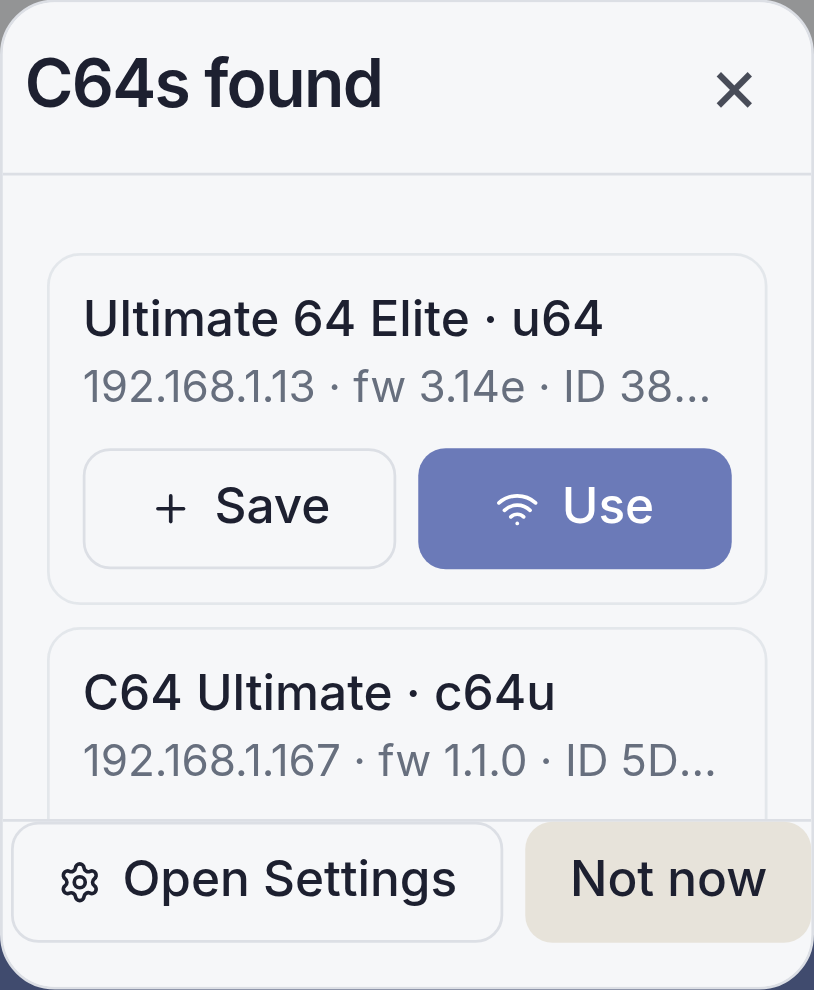
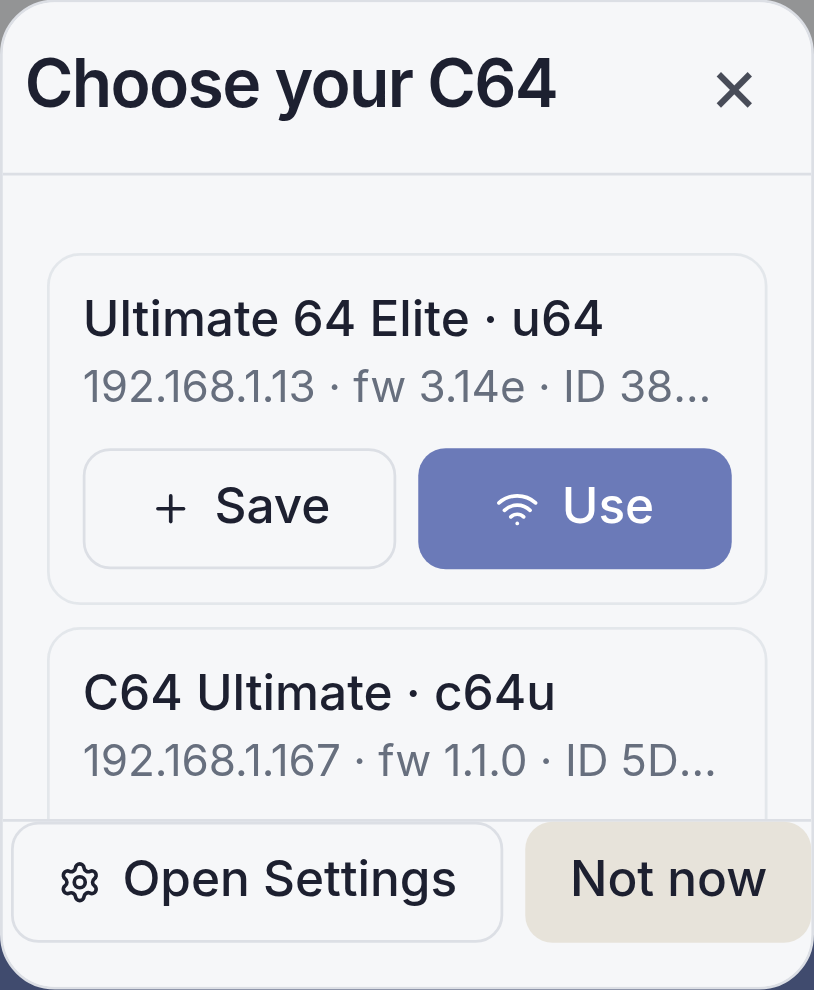
fix(ui): title the discovery dialog by what it is for
The dialog's two titles are now **"Choose your C64"** when devices were found and
**"No C64 found"** when none were.

With candidates, the dialog is a chooser — every row carries Save and Use — so
the title names the action rather than reporting a count. It is shorter than the
previous wording, drops "system" (which told the reader nothing), avoids the
awkward "C64s" plural, is safe in uppercase, and stays symmetric with the empty
case on the noun.

Updated with it:

- the six assertions in `tests/unit/components/DeviceDiscoveryInterstitial.test.tsx`
- the dialog locator in `playwright/screenshots.spec.ts`, which matches the dialog
  **by accessible name**, so a stale pattern there stops finding the dialog
  instead of failing loudly
- `docs/img/app/launch/discovery/startup-autodiscovery-interstitial.png`,
  recaptured on its own rather than through `npm run screenshots` (which rewrites
  about 200 files with machine render drift). Exactly one PNG changed; the
  png-prune hook reported `scanned=1 kept=1 reverted=0`.

The manual never used the old wording — it described the flow generically — so
there was no old terminology to replace there. It now names both dialogs, so a
reader can match the page to the screen in front of them, and the Feature
Reference row for manual host/IP entry points at "No C64 found" rather than
describing it. Both editions regenerated.

`docs/testing/PENDING-SCREENSHOT-REGEN.md` records that a wider screenshot pass
[…]

Changed region(s): [[0.0921, 0.0606, 0.6757, 0.1212]]

diff --git a/tests/unit/components/DeviceDiscoveryInterstitial.test.tsx b/tests/unit/components/DeviceDiscoveryInterstitial.test.tsx
@@ -145,7 +145,7 @@ describe("DeviceDiscoveryInterstitial", () => {
   it("shows automatic startup discovery results while the app is offline", () => {
     renderDialog();
 
-    expect(screen.getByText("C64s found")).toBeInTheDocument();
+    expect(screen.getByText("Choose your C64")).toBeInTheDocument();
     expect(screen.getByText("Ultimate 64 Elite · u64")).toBeInTheDocument();
     expect(screen.getByText("192.168.1.13 · fw 3.14e · ID 38C1BA")).toBeInTheDocument();
     expect(screen.getByTestId("startup-use-discovered-device-id:38c1ba")).toBeInTheDocument();
@@ -156,7 +156,7 @@ describe("DeviceDiscoveryInterstitial", () => {
 
     renderDialog();
 
-    expect(screen.getByText("C64s found")).toBeInTheDocument();
+    expect(screen.getByText("Choose your C64")).toBeInTheDocument();
     expect(screen.getByTestId("startup-use-discovered-device-id:38c1ba")).toBeInTheDocument();
   });
 
@@ -510,16 +510,16 @@ describe("DeviceDiscoveryInterstitial", () => {
 
     fireEvent.click(screen.getByTestId("startup-device-discovery-open-settings"));
 
-    expect(screen.queryByText("C64s found")).not.toBeInTheDocument();
+    expect(screen.queryByText("Choose your C64")).not.toBeInTheDocument();
   });
 
   it("dismisses on dialog close (Escape)", () => {
     renderDialog();
-    expect(screen.getByText("C64s found")).toBeInTheDocument();
+    expect(screen.getByText("Choose your C64")).toBeInTheDocument();
 
     fireEvent.keyDown(document.activeElement ?? document.body, { key: "Escape" });
 
-    expect(screen.queryByText("C64s found")).not.toBeInTheDocument();
+    expect(screen.queryByText("Choose your C64")).not.toBeInTheDocument();
   });
 
   it("acknowledges the discovery results into the shared store when dismissed with Not now (HARD19-028)", () => {

diff --git a/src/components/DeviceDiscoveryInterstitial.tsx b/src/components/DeviceDiscoveryInterstitial.tsx
@@ -370,10 +370,11 @@ export function DeviceDiscoveryInterstitial() {
 
   if (!shouldOffer) return null;
 
-  // "C64" rather than "C64 system": the extra word says nothing the reader needs,
-  // and on the compact profile the longer title wrapped to two lines and pushed the
-  // dialog's own controls down.
-  const dialogTitle = hasCandidates ? "C64s found" : "No C64 found";
+  // The two titles stay symmetric on the noun and drop "system", which said
+  // nothing the reader needed and wrapped to two lines on the compact profile.
+  // With candidates the dialog is a chooser — every row carries Save and Use — so
+  // the title names the action rather than reporting a count.
+  const dialogTitle = hasCandidates ? "Choose your C64" : "No C64 found";
   const dialogDescription = hasCandidates
     ? "Choose one to control now, save one for later, or enter an address manually in Settings."
     : "Enter your C64 Ultimate host or IP address.";

diff --git a/playwright/screenshots.spec.ts b/playwright/screenshots.spec.ts
@@ -4173,7 +4173,7 @@ test.describe("App screenshots", () => {
       await page.setViewportSize(DISPLAY_PROFILE_VIEWPORTS.compact.viewport);
       await page.goto("/", { waitUntil: "domcontentloaded" });
 
-      const dialog = page.getByRole("dialog", { name: /C64s found/i });
+      const dialog = page.getByRole("dialog", { name: /Choose your C64/i });
       await expect(dialog).toBeVisible({ timeout: 15000 });
       await expect(dialog.getByText("Ultimate 64 Elite · u64")).toBeVisible();
       // Crop to the interstitial itself, not the whole screen.

diff --git a/docs/testing/hil-game-mode-8020-soak.md b/docs/testing/hil-game-mode-8020-soak.md
@@ -54,11 +54,11 @@ diamond8: 5=up, 7=left, 9=right, 0=down, 8=fire. classicT9: 2=up, 4=left, 6=righ
 | F9  | C     | **open, unfinished**  | After 200 random keys the Play page rendered **completely blank** — tab bar and guidance only, textLen 64 vs 587 healthy, focusables 6 vs 50. Recovers on any tab press. Reproduction so far: 10 rounds rapid page-jumping (0), 5 rounds identical 200-key mash (0), 2 of a planned 15 more (0) before device handover. **Not at the 20-round bar — incomplete, not concluded.** Needs a device (Game Mode entry).                                                                                                                                    | **resume on u64**           |
 | F10 | C     | works                 | Stream integrity, 27 s on the 8020: audio 0 dropped / 0 concealed / 0 underruns; video 8 lost packets, **0 lost frames**, 4 partial; 0 A/V sync pops; 100% effective rate at 51 fps; pipeline residence P99 13 ms. Cross-checks the split Audio/Video loss counters the manual documents.                                                                                                                                                                                                                                                             | confirmed healthy           |
 | F11 | D     | resolved              | Landscape initially unreachable — the app locks portrait via `ScreenOrientation.lock`; a localStorage write does not move it. Reached via Settings → Appearance → Landscape.                                                                                                                                                                                                                                                                                                                                                                          | resolved                    |
-| F12 | **D** | **BLOCKING for 8020** | **In landscape (427x320) the "No C64 systems found" dialog's primary action is unreachable.** Content is 363 px in a 320 px viewport; **"Connect" renders at y=285–329, off-screen**; only "Not now" (dismiss) is visible. 8×DPAD_DOWN never leaves "Not now"; up/left/right → "Close"; Tab reaches the host input at y=178, also `visible:false`, and focus does **not** scroll it into view. A keypad-only user types into a field they cannot see and can never reach Connect — **first-run setup is impossible**. I had to click Connect via CDP. | **open, verified**          |
+| F12 | **D** | **BLOCKING for 8020** | **In landscape (427x320) the discovery dialog's primary action is unreachable.** Content is 363 px in a 320 px viewport; **"Connect" renders at y=285–329, off-screen**; only "Not now" (dismiss) is visible. 8×DPAD_DOWN never leaves "Not now"; up/left/right → "Close"; Tab reaches the host input at y=178, also `visible:false`, and focus does **not** scroll it into view. A keypad-only user types into a field they cannot see and can never reach Connect — **first-run setup is impossible**. I had to click Connect via CDP. | **open, verified**          |
 | F13 | C     | scoping F12           | The focus ring is not generally broken: 22 focus steps down Settings left only one element "off-screen", and that was a section container taller than the viewport, not a stranded control. F12 is specific to that dialog's footer button. Portrait very likely unaffected (363 px content fits 427 px) — inferred from the measurement, not separately observed, since the dialog stops appearing once a device is saved.                                                                                                                           | analysed                    |
 | F14 | C     | works                 | Orientation is recoverable in-app: Settings → Appearance → Portrait restored 320x427 cleanly.                                                                                                                                                                                                                                                                                                                                                                                                                                                         | confirmed                   |
 | F15 | C/D   | works                 | The variant pins `default_display_profile: compact`, so the 8020 stays compact at 16 px root in BOTH orientations. My guess that 427 px would flip it to medium was wrong.                                                                                                                                                                                                                                                                                                                                                                            | confirmed                   |
-| F16 | C     | works                 | With no network the app degrades well — a clear "No C64 systems found" prompt with a host/IP field, not a blank or stuck screen.                                                                                                                                                                                                                                                                                                                                                                                                                      | confirmed                   |
+| F16 | C     | works                 | With no network the app degrades well — a clear "No C64 found" prompt with a host/IP field, not a blank or stuck screen.                                                                                                                                                                                                                                                                                                                                                                                                                      | confirmed                   |
 
 ### Note on F5
 

diff --git a/docs/testing/PENDING-SCREENSHOT-REGEN.md b/docs/testing/PENDING-SCREENSHOT-REGEN.md
@@ -1,0 +1,53 @@
+# Pending: screenshot regeneration
+
+Standing note. **Do this once all other in-flight work on this branch is finished**, not before —
+regenerating early only means doing it again after the next UI change.
+
+## Why
+
+UI copy and layout changed on this branch, so some committed PNGs under `docs/img/app/` show text or
+spacing the app no longer produces.
+
+Known so far:
+
+- Discovery interstitial titles changed to **"Choose your C64"** (devices found) and
+  **"No C64 found"** (none found). `docs/img/app/launch/discovery/startup-autodiscovery-interstitial.png`
+  has already been recaptured for this; anything else showing that dialog has not been checked.
+- The compact-profile density work on `ux/compact-density` (separate branch) will change spacing on
+  most compact screenshots when it lands.
+- The follow-focus feature on `feat/follow-focus` (separate branch) adds Live View UI.
+
+## How — and the trap
+
+Do **not** simply run `npm run screenshots` and commit the result. It rewrites roughly 200 PNGs with
+machine-specific render drift (fonts and antialiasing differ from the machine that produced the
+committed corpus), so the diff is mostly noise and hides the handful of real changes.
+
+Instead:
+
+1. Build for the default variant first. `dist/` may hold a `c64u-remote` build from HIL work, and
+   the screenshots must be captured from the `c64commander` variant:
+   ```bash
+   npm run build
+   ```
+2. Capture only what changed, on a private port — 4173 is shared with other agents on this machine
+   and a collision looks like a test failure:
+   ```bash
+   TRACE_ASSERTIONS_DEFAULT=1 PLAYWRIGHT_TRACE_MODE=off PLAYWRIGHT_VIDEO_MODE=off \
+   PLAYWRIGHT_PORT=4791 npx playwright test playwright/screenshots.spec.ts \
+     -g "<test name>" --workers 1
+   ```
+3. Check what actually changed before staging:
+   ```bash
+   git status --short docs/img/
+   ```
+   The repo's `png-prune` pre-commit hook reports `scanned=N reverted=N deleted=N kept=N`. A file it
+   keeps is a real content change; one it reverts was drift. If a file you did not intend appears,
+   revert it: `git checkout -- docs/img/<path>`.
+
+## Also check
+
+- `tests/unit/readmeScreenshotCoverage.test.ts` — asserts the README's gallery references resolve.
+- Any Playwright locator that matches a dialog **by name**. The discovery locator in
+  `playwright/screenshots.spec.ts` matched `/C64 systems found/i` and would have silently stopped
+  finding the dialog rather than failing loudly.

diff --git a/docs/manual/c64commander/c64commander-manual.md b/docs/manual/c64commander/c64commander-manual.md
@@ -63,13 +63,13 @@ Note the IP address under **Wired Network Setup** or **WI-FI Network Setup**. Yo
 
 Start C64 Commander. If no saved device is reachable, it scans the local network for supported devices.
 
-If devices are found:
+If devices are found, the app opens **Choose your C64**:
 
 1. Choose **Use** to connect now.
 2. Choose **Save** to keep the device for later.
 3. If the device is password-protected, enter its network password when asked.
 
-If no devices are found, C64 Commander opens a manual setup prompt.
+If no devices are found, C64 Commander opens **No C64 found**, a manual setup prompt.
 
 Enter a hostname such as `c64u`, `u64`, or `u2`, or an IP address such as `192.168.1.64`, then choose **Connect**. If the device answers but requires a password, the same dialog asks for it before saving and connecting.
 
@@ -865,7 +865,7 @@ Preferred locations are marked first.
 | Feature | Where to find it | Notes |
 | --- | --- | --- |
 | Connect to a device | **Startup discovery**, Settings → Connection | Use startup discovery first. Use Settings for later edits. |
-| Manual host/IP entry | **Startup prompt when no devices are found**, Settings → Connection | Startup prompt is fastest on first run; Settings is best for saved-device maintenance. |
+| Manual host/IP entry | **No C64 found** at startup, Settings → Connection | Startup prompt is fastest on first run; Settings is best for saved-device maintenance. |
 | Network password | **Startup prompt or auth popup**, Settings → Connection | The app asks only when needed. |
 | Switch saved device | **Header badge long-press / `#`**, Settings → Connection | Use Device Switcher for fast switching; Settings for editing. |
 | Menu / Pause / Reset / Reboot | **Home → Quick Actions** | The everyday controls. |

diff --git a/docs/manual/c64u-remote/c64u-remote-manual.md b/docs/manual/c64u-remote/c64u-remote-manual.md
@@ -61,13 +61,13 @@ Note the IP address under **Wired Network Setup** or **WI-FI Network Setup**. Yo
 
 Start C64U Remote. If no saved device is reachable, it scans the local network for a Commodore 64 Ultimate.
 
-If devices are found:
+If devices are found, the app opens **Choose your C64**:
 
 1. Choose **Use** to connect now.
 2. Choose **Save** to keep the device for later.
 3. If the device is password-protected, enter its network password when asked.
 
-If no devices are found, C64U Remote opens a manual setup prompt.
+If no devices are found, C64U Remote opens **No C64 found**, a manual setup prompt.
 
 Enter a hostname such as `c64u` or an IP address such as `192.168.1.64`, then choose **Connect**. If the Commodore 64 Ultimate answers but requires a password, the same dialog asks for it before saving and connecting.
 
@@ -885,7 +885,7 @@ Preferred locations are marked first.
 | Feature | Where to find it | Notes |
 | --- | --- | --- |
 | Connect to a device | **Startup discovery**, Settings → Connection | Use startup discovery first. Use Settings for later edits. |
-| Manual host/IP entry | **Startup prompt when no devices are found**, Settings → Connection | Startup prompt is fastest on first run; Settings is best for saved-device maintenance. |
+| Manual host/IP entry | **No C64 found** at startup, Settings → Connection | Startup prompt is fastest on first run; Settings is best for saved-device maintenance. |
 | Network password | **Startup prompt or auth popup**, Settings → Connection | The app asks only when needed. |
 | Switch saved device | **Header badge long-press / `#`**, Settings → Connection | Use Device Switcher for fast switching; Settings for editing. |
 | Menu / Pause / Reset / Reboot | **Home → Quick Actions** | The everyday controls. |
